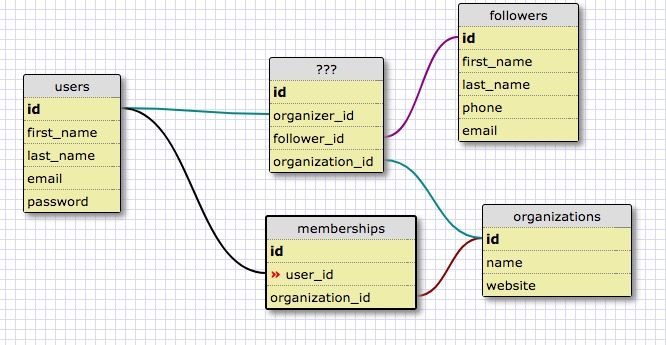
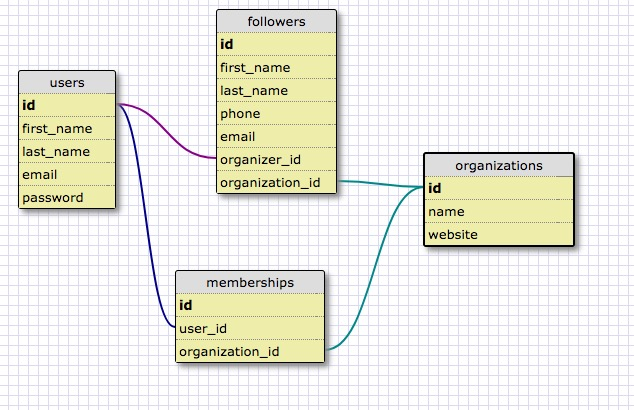
Creat follower migrations
Add follower model

diff --git a/db/schema.rb b/db/schema.rb
@@ -10,7 +10,7 @@
 #
 # It's strongly recommended that you check this file into your version control system.
 
-ActiveRecord::Schema.define(version: 20170920011416) do
+ActiveRecord::Schema.define(version: 20170921145550) do
 
   # These are extensions that must be enabled in order to support this database
   enable_extension "plpgsql"
@@ -18,9 +18,13 @@ ActiveRecord::Schema.define(version: 20170920011416) do
   create_table "followers", force: :cascade do |t|
     t.string   "first_name"
     t.string   "last_name"
+    t.string   "phone"
     t.string   "email"
-    t.datetime "created_at", null: false
-    t.datetime "updated_at", null: false
+    t.text     "notes"
+    t.datetime "created_at",      null: false
+    t.datetime "updated_at",      null: false
+    t.string   "organizer_id"
+    t.string   "organization_id"
   end
 
   create_table "memberships", force: :cascade do |t|

diff --git a/db/migrate/20170920140146_create_followers.rb b/db/migrate/20170920140146_create_followers.rb
@@ -1,0 +1,13 @@
+class CreateFollowers < ActiveRecord::Migration[5.0]
+  def change
+    create_table :followers do |t|
+      t.string :first_name
+      t.string :last_name
+      t.string :phone
+      t.string :email
+      t.text :notes
+
+      t.timestamps
+    end
+  end
+end

diff --git a/db/migrate/20170920173129_create_relationships.rb b/db/migrate/20170920173129_create_relationships.rb
@@ -1,0 +1,11 @@
+class CreateRelationships < ActiveRecord::Migration[5.0]
+  def change
+    create_table :relationships do |t|
+    	t.references :user
+    	t.references :follower
+    	t.references :organization
+
+    	t.timestamps 
+    end
+  end
+end

diff --git a/config/routes.rb b/config/routes.rb
@@ -7,7 +7,9 @@ Rails.application.routes.draw do
 
   root 'welcome#landing'
 
-  resources :users
+  resources :users do 
+  	resources :followers
+  end
   
 
   get    '/login',   to: 'sessions#new'

diff --git a/db/migrate/20170921145550_change_followers.rb b/db/migrate/20170921145550_change_followers.rb
@@ -1,0 +1,6 @@
+class ChangeFollowers < ActiveRecord::Migration[5.0]
+  def change
+  	add_column :followers, :organizer_id, :string
+  	add_column :followers, :organization_id, :string
+  end
+end

diff --git a/db/migrate/20170921145319_drop_relationships.rb b/db/migrate/20170921145319_drop_relationships.rb
@@ -1,0 +1,5 @@
+class DropRelationships < ActiveRecord::Migration[5.0]
+  def change
+  	drop_table :relationships
+  end
+end

diff --git a/app/models/follower.rb b/app/models/follower.rb
@@ -1,2 +1,3 @@
-class Follower < ApplicationRecord
+class Follower <ApplicationRecord
+	
 end
